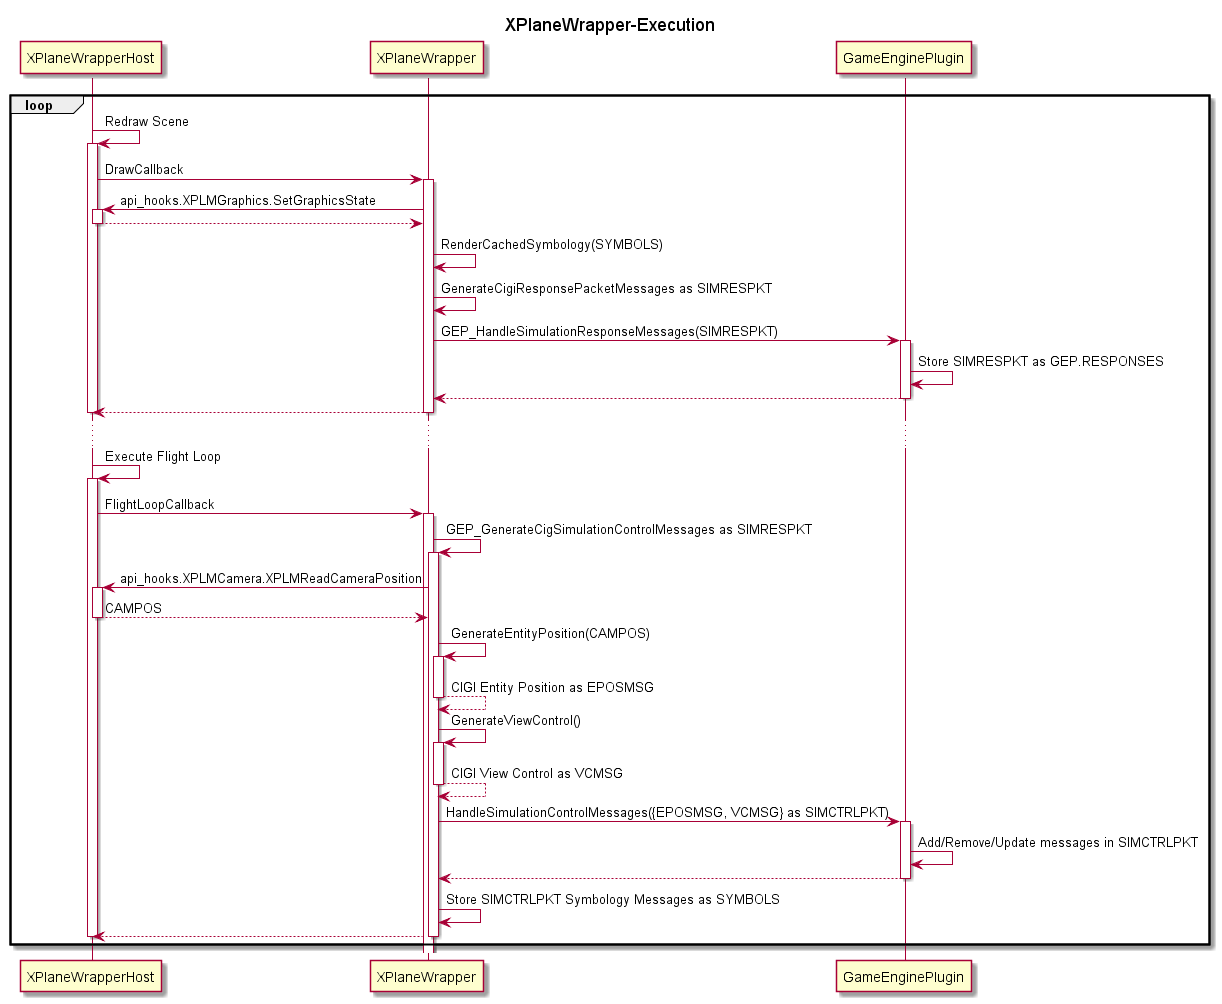
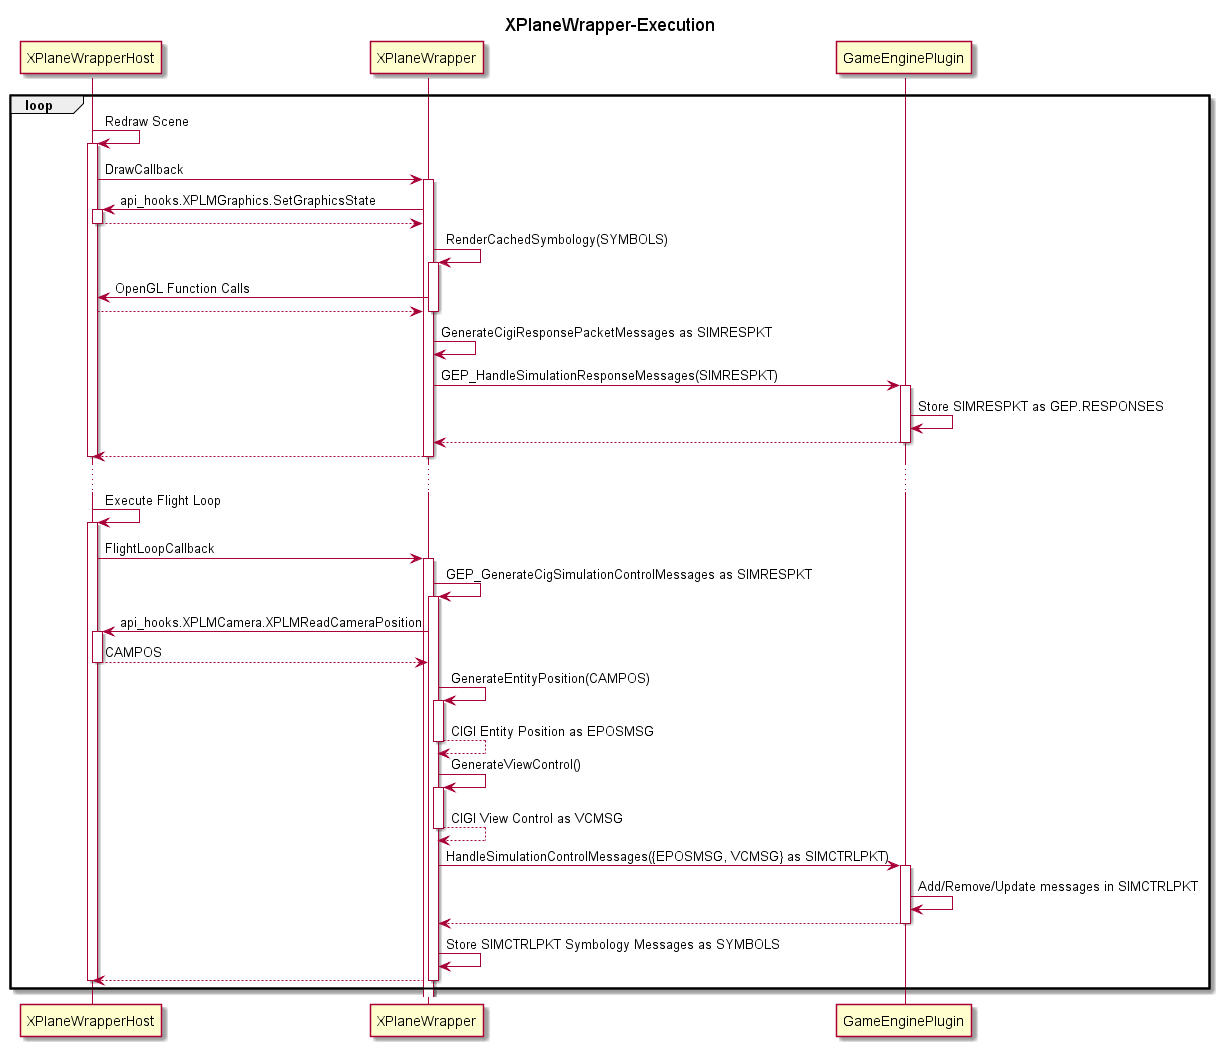
updating docs with GEP api and lifecyle details

diff --git a/GameEnginePlugin/Docs/SimpleGameEnginePlugin-Overview.md b/GameEnginePlugin/Docs/SimpleGameEnginePlugin-Overview.md
@@ -19,8 +19,8 @@ The general lifecycle of game engine plugins is as follows:
  1. The Host Application creates an interoperation layer during its initialization.
     - This initialization is host-specific and would likely consist of loading its own 'wrapper plugins'.
     - The *GameEnginePlugin* project includes interopation examples with *X-Plane 11* and **TBD**. 
- 2. The Host Application interoperation layer dynamically loads libraries that implement *GameEnginePlugin* free functions calls their *GEP_Initialize" functions.
- 3. **IN PROGRESS:** During normal operation, the Host Application will update its state and convert relevant *Simulation Host* state information to structures passed to *GEP_HandleHostControlMessages* function calls.
+ 2. The Host Application interoperation layer dynamically loads libraries that implement *GameEnginePlugin* free functions calls their *GEP_Initialize* functions.
+ 3. During normal operation, the Host Application will update its state and convert relevant *Simulation Host* state information to structures passed to *GEP_HandleSimulationControlMessages* function calls.
  4. **FUTURE:** Add handling of Host Response messages.
  5. **FUTURE:** Add Shutdown operation.
 
@@ -64,8 +64,9 @@ The XPlane Wrapper Initialization is as follows:
 
 The XPlane Wrapper Execution is as follows:
  1. The XPlaneWrapper library *Draw Callback* is called by host (test host or X-Plane itself) periodically.
- 2. The *Draw Callback* function generates a simulation response message and passed it in as an argument in the GEP_HandleSimulationResponseMessages function to plugins.
- 3. The XPlaneWrapper library *Flight Loop Callback* is called by host (test host or X-Plane itself) periodically.
- 4. The *Flight Loop Callback* function generates a simulation control message (to include basic state information about the aircraft being controlled) and passed it in as an argument in the GEP_HandleSimulationControlMessages function to plugins.
+ 2. The *Draw Callback* function will make appropriate calls to the host application to command it render updates to the scene and/or overlay symbology.
+ 3. The *Draw Callback* function generates a simulation response message and passed it in as an argument in the GEP_HandleSimulationResponseMessages function to plugins.
+ 4. The XPlaneWrapper library *Flight Loop Callback* is called by host (test host or X-Plane itself) periodically.
+ 5. The *Flight Loop Callback* function generates a simulation control message (to include basic state information about the aircraft being controlled) and passed it in as an argument in the GEP_HandleSimulationControlMessages function to plugins.
 
 ![](./XPlaneWrapper-Execution.png)
